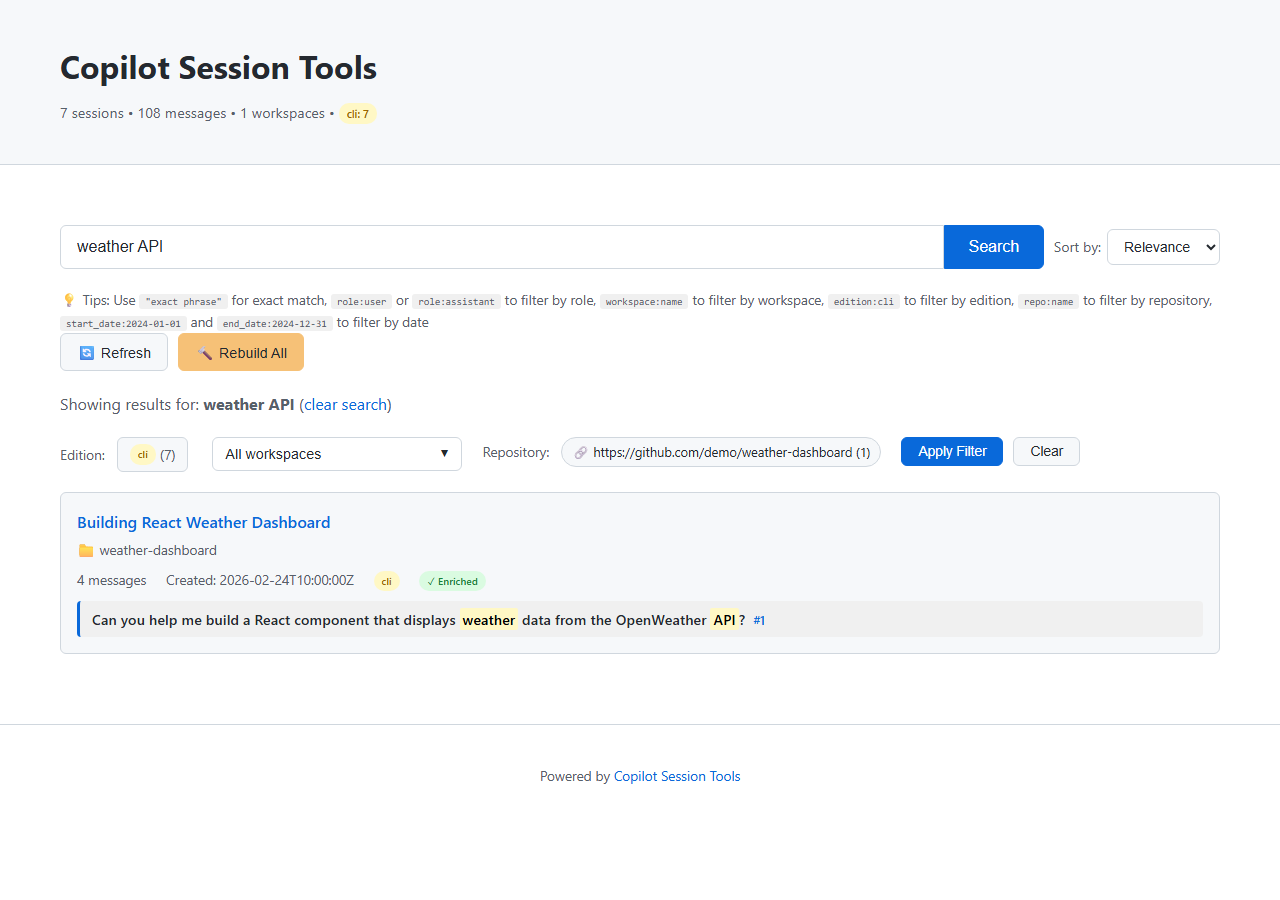
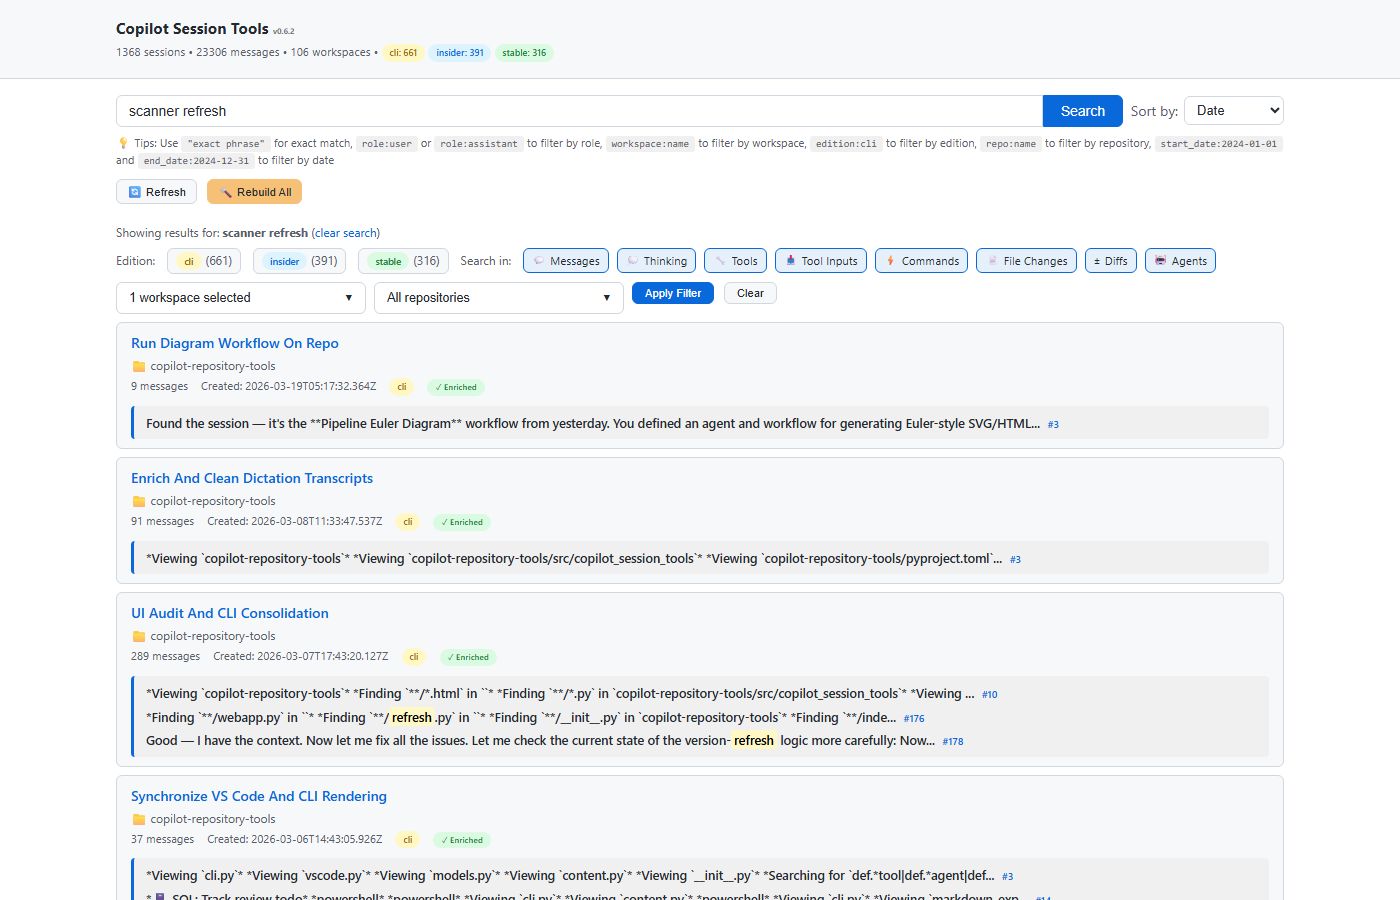
docs: refresh README screenshots, add cleanup screenshot, backfill CHANGELOG
- Replace all 4 README screenshots with current UI (sticky toolbar,
  edition badges, search-in filter pills, dense layout)
- Add new screenshot-cleanup.png showing Cleanup/Revert All toolbar
  and cleaned voice-dictated messages
- Backfill CHANGELOG entries for v0.1.1 through v0.6.1 (12 missing
  releases reconstructed from git history)

diff --git a/CHANGELOG.md b/CHANGELOG.md
@@ -24,6 +24,12 @@ and this project adheres to [Semantic Versioning](https://semver.org/spec/v2.0.0
 - **Scanner**: Guard against null token fields in `assistant.usage` events (prevents `TypeError` on nullable `Double` values from SDK)
 - **Scanner**: `toolTitle` now correctly used for shell command descriptions (was previously ignored in `cmd_run` branch)
 
+## [0.6.1] - 2026-03-12
+
+### Fixed
+
+- **Scanner**: Extract `reasoningText` from `assistant.message` events as thinking blocks (newer CLI versions embed thinking directly instead of separate `assistant.reasoning` events)
+
 ## [0.6.0] - 2026-03-09
 
 ### Added
@@ -42,6 +48,160 @@ and this project adheres to [Semantic Versioning](https://semver.org/spec/v2.0.0
 - **Database**: Schema v5 migration — `original_content` and `cleanup_model` columns on `cst_messages`
 - **Dependencies**: Optional `[llm]` extras group with `litellm>=1.50.0`
 - **Benchmark**: `scripts/benchmark_cleanup.py` for comparing pre-filter strategies and LLM models
+
+## [0.5.0] - 2026-03-08
+
+### Added
+
+- **Web**: Content-type filter pills on index page ('Search in:' pills for messages, tools, files, etc.)
+- **Web**: Sticky unified toolbar with title, gear icon, and export buttons
+- **Web**: Per-message sticky headers with role labels
+- **Web**: Workspace/repository sorting by count, searchable repository dropdown
+- **CLI**: Unified `--include`/`--exclude` flags on search command with 8 content types (replaces `--tools-only`, `--files-only`)
+
+### Changed
+
+- **Web**: Denser UI — 14px base font, compact headers, unified card padding
+- **Web**: Scroll position preservation (CSS `overflow-anchor` + JS fallback)
+- **Web**: Full rebuild parallelized with `ThreadPoolExecutor`
+
+### Fixed
+
+- **Database**: `enrichment_version` now correctly stamped for VS Code sessions
+- **Scanner**: CLI sessions with missing `events.jsonl` no longer stuck in refresh loop
+- **Web**: Zero-message sessions hidden from index page and banner
+- **Web**: Tool/file search results now link to correct message anchors
+
+## [0.4.4] - 2026-03-07
+
+### Changed
+
+- **Core**: Extract shared utility module (`utils.py`) — eliminates ~500 lines of duplicated code across exporters and webapp
+- **Scanner**: Shared `scanner/shared.py` with `normalize_tool_status`, `extract_command_run`, `normalize_invocation_message`
+- **Scanner**: Bump `PARSER_VERSION` to 2 (triggers re-parse of existing sessions)
+
+### Fixed
+
+- **Scanner**: Normalize VS Code tool status (`completed` → `success`, detect errors)
+- **Scanner**: Extract `CommandRun` for terminal/shell tools in VS Code subagents
+- **Scanner**: Populate block description with `toolId` fallback
+- **Scanner**: Normalize invocation messages for built-in tools
+- **Scanner**: Guard against null `modelMetrics` in `session.shutdown` handler
+- **Scanner**: `ask_user` falls back to `message` field when `question` absent
+
+## [0.4.3] - 2026-03-06
+
+### Added
+
+- **Scanner**: Handle `session.task_complete` events (renders task summary as collapsible block with markdown)
+- **Scanner**: Handle `session.shutdown` events (renders session stats: shutdown type, code changes, model metrics)
+- **Scanner**: Pretty-format handlers for 13 new CLI tools (`show_file`, `ask_user`, `skill`, `lsp`, `propose_work`, `list_agents`, `read_agent`, `exit_plan_mode`, `fetch_copilot_cli_documentation`, etc.)
+- **CLI**: `migrate` subcommand for explicit database schema migration
+
+### Changed
+
+- **Scanner**: Added 10 new ephemeral event types to skip list (permission, elicitation, user_input, external_tool from CLI v0.0.422)
+
+## [0.4.2] - 2026-03-06
+
+### Added
+
+- **CLI**: `--include-agent-details`/`--no-agent-details` flag for markdown export
+
+### Fixed
+
+- **Web**: Structured agent rendering with recursive nested content — internal tools as compact text, MCP tools as collapsible details, agent results in styled quote box
+- **Scanner**: Skills render as expandable dropdowns with description
+
+## [0.4.1] - 2026-02-28
+
+### Added
+
+- **Database**: `enrichment_version` column on `cst_sessions` (schema v3) for tracking which parser version enriched each session
+- **Web**: Version-refresh banner on session page when enriched with older version
+- **Web**: Global version-refresh banner on index page with count of stale sessions
+- **Web**: PyPI upgrade check — dismissible banner when newer version available
+- **CLI**: PyPI upgrade notice after `scan` and `web` commands (24-hour cached)
+- **Web**: App version displayed in header
+
+### Changed
+
+- **Web**: Default title renamed from "Copilot Chat Archive" to "Copilot Session Tools"
+- **Web**: Browser tab title uses session display name instead of workspace/session ID
+
+## [0.4.0] - 2026-02-27
+
+### Added
+
+- **Scanner**: Sub-agent/background agent content rendered as collapsible `<details>` blocks with status pills (completed/failed)
+- **Scanner**: CLI scanner tracks `subagent.started`/`completed` brackets via stack, tags messages with `agent_id` and `agent_display_name`
+- **Scanner**: VS Code scanner detects `toolSpecificData.kind=='subagent'` and groups child tools under parent
+- **Web**: Collapsible agent blocks with indigo left border and dark mode support
+- **Markdown**: Agent messages rendered as blockquotes with group headers
+- **Database**: Schema v2 — `agent_id`, `agent_display_name`, `agent_nesting_level` on `cst_messages`; `subagent_invocation_id` on `cst_tool_invocations`
+
+## [0.3.1] - 2026-02-25
+
+### Changed
+
+- **Core**: Unified CLI and web refresh into shared `refresh.py` module — both now use identical code paths for scan, enrichment, and VS Code import
+
+### Fixed
+
+- **Scanner**: `parse_session_file()` now stamps scan-time mtime/size (not parse-time), preventing unnecessary re-imports
+- **CLI**: Verbose output restored via `ProgressCallback`
+
+## [0.3.0] - 2026-02-24
+
+### Added
+
+- **Database**: Two-tier rendering — sessions visible immediately from Copilot CLI's built-in `session-store.db`, enriched with `cst_*` tables on scan
+- **CLI**: `enrich` command for single-session enrichment
+- **Web**: Enrichment badge (green ✓ Enriched / gray Basic) on session list
+- **Web**: "Scan Now" button on unenriched sessions for inline enrichment
+- **Web**: Flash message rendering for enrich errors
+
+### Changed
+
+- **Database**: Default DB path changed to `~/.copilot/session-store.db` (Copilot CLI's own database)
+- **Database**: All tables renamed to `cst_*` prefix — built-in tables are never modified
+- **Database**: WAL mode + `busy_timeout=5000` for concurrent access
+- **Scanner**: Added `PARSER_VERSION` tracking and `source_format` field
+
+### Removed
+
+- **CLI**: `rebuild`, `raw-json` commands (superseded by session store integration)
+- **Database**: Raw compressed JSON blob storage (`raw_sessions` table)
+
+## [0.2.0] - 2026-02-22
+
+### Added
+
+- **Scanner**: Handle 8 new CLI event types — `subagent.started`/`completed`/`failed`, `session.handoff`/`warning`/`mode_changed`/`context_changed`/`plan_changed`
+- **Testing**: Snapshot test infrastructure with `pytest-regressions` golden-file baselines
+- **Testing**: Real session fixtures (CLI, VS Code Insiders, VS Code Stable) replacing synthetic test data
+
+### Changed
+
+- **Scanner**: Added 5 internal event types to skip list
+
+## [0.1.3] - 2026-02-14
+
+### Fixed
+
+- **CI/CD**: Auto-tag release trigger — `GITHUB_TOKEN` tags don't trigger workflows; now uses `gh workflow run`
+
+## [0.1.2] - 2026-02-14
+
+### Added
+
+- **CI/CD**: Auto-tag on version bump, pre-push lint hook
+
+## [0.1.1] - 2026-02-13
+
+### Added
+
+- **CI/CD**: PyPI publishing infrastructure
 
 ## [0.1.0] - 2025-02-13
 

diff --git a/README.md b/README.md
@@ -210,6 +210,8 @@ pip install copilot-session-tools[llm]
 
 **Web viewer integration:** Each user message shows a 🎙 mic icon — gray (not cleaned), green (cleaned), or amber (showing original). Click to open a popover with toggle/revert/clean actions. Session-level cleanup and revert-all buttons are in the toolbar.
 
+![Transcript cleanup with Cleanup/Revert toolbar buttons](docs/screenshot-cleanup.png)
+
 ## Session Sources
 
 | Source | Format | Location |
